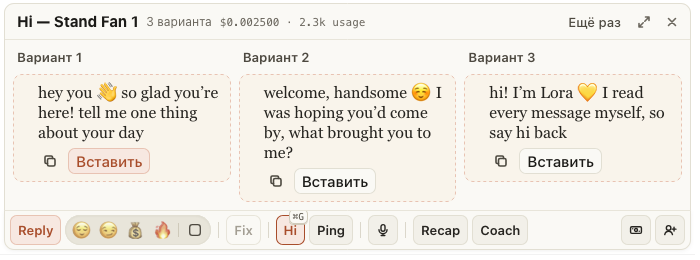
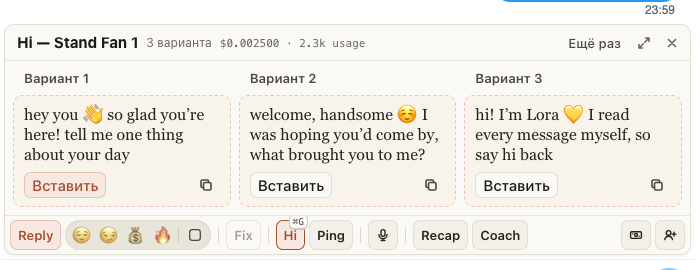
fix(dock): Hi's side-by-side cards share one height, their buttons one foot line

diff --git a/packages/ui/src/dock/styles.ts b/packages/ui/src/dock/styles.ts
@@ -154,16 +154,23 @@ ${/* ── parts: Hi variants, the Б2 question ── */ ''}
 .cg-vhead b { color: var(--cg-ink-2); font-weight: 600; }
 .cg-hi { display: grid; gap: 8px; padding: 6px 8px 8px; }
 .cg-hi__col { display: grid; gap: 6px; align-content: start; min-width: 0; }
+${/* Side by side the variants read as one row of cards: each column's last card reaches the row's foot, its buttons
+   stand at the card's foot — «Вставить» at the text's edge, «Копировать» at the far one — and a card of one message
+   keeps the same margin on both sides of its text. */ ''}
 @container cg (min-width: 680px) {
   .cg-hi { grid-auto-flow: column; grid-auto-columns: minmax(0, 1fr); }
-  .cg-hi__col { container: cg-hi / inline-size; }
-  .cg-hi .cg-part { grid-template-columns: 24px minmax(0, 1fr); }
+  .cg-hi__col { container: cg-hi / inline-size; display: flex; flex-direction: column; }
+  .cg-hi__col > .cg-part:last-child { flex-grow: 1; }
+  .cg-hi .cg-vhead { padding: 0 11px; }
+  .cg-hi .cg-part { grid-template-columns: 24px minmax(0, 1fr); grid-template-rows: 1fr; padding: 8px 10px 8px 0; }
+  .cg-hi .cg-part.is-solo { grid-template-columns: 10px minmax(0, 1fr); }
   .cg-hi .cg-part__t { font-size: var(--cg-text-lg); line-height: 20px; }
-  .cg-hi .cg-part__a { grid-column: 2; justify-self: start; flex-wrap: wrap; row-gap: 4px; margin: 6px 0 0 -2px; }
-  .cg-hi .cg-part.is-done .cg-part__a { margin: 2px 0 0 -2px; }
+  .cg-hi .cg-part__a { grid-column: 2; flex-wrap: wrap; row-gap: 4px; margin: 8px 0 0; }
+  .cg-hi .cg-part__copy { order: 1; margin-left: auto; }
+  .cg-hi .cg-part.is-done .cg-part__a, .cg-hi .cg-part.is-done.is-kept .cg-part__a { margin: 8px 0 0; }
   .cg-hi .cg-part__card, .cg-hi .cg-part__extra { grid-column: 2; }
 }
-${/* A variant's column of a ~700 px dock is ~225 px: «Копировать» in words and «Вставить ↵» do not fit its card, so
+${/* A variant's column of a ~700 px dock is ~225 px: «Копировать» in words beside «Вставить ↵» does not fit its card, so
    the copy is its icon there, as on a narrow dock; a row that still runs past the card wraps instead. */ ''}
 @container cg-hi (max-width: 279px) {
   .cg-hi .cg-part__copy { width: 28px; padding: 0; justify-content: center; }

diff --git a/changes/hi-variants-fit.md b/changes/hi-variants-fit.md
@@ -3,15 +3,17 @@ kind: fixed
 sites: chatspace, fansly
 ---
 
-# Кнопки под вариантами Hi помещаются в карточку
+# Три варианта Hi стоят ровно, кнопки — внутри карточек
 
 Для тех, у кого поле чата средней ширины: Hi ставит три варианта рядом, и кнопка «Вставить» вылезала за край
-карточки. Теперь в узкой колонке «Копировать» — значок с подсказкой, а «Вставить» стоит рядом с ним внутри
-карточки. На широком поле «Копировать» по-прежнему написано словом.
+карточки, а карточки были разной высоты. Теперь карточки одной высоты, «Вставить» у каждой внизу слева, на одной
+линии во всех трёх, «Копировать» — в том же ряду справа. В узкой колонке «Копировать» — значок с подсказкой, на
+широком поле — словом.
 
-![Hi на поле шириной ~700 px: три варианта, кнопки внутри карточек](hi-variants-fit.png)
+![Hi на поле шириной ~700 px: три карточки одной высоты, кнопки внизу](hi-variants-fit.png)
 
 ## Как это устроено
 
-Колонка варианта сама решает по своей ширине: уже 280 px — «Копировать» значком. Если кнопки всё равно не
-помещаются (например, «✓ Вставлено · Вставить ещё раз»), они переносятся на вторую строку, а не выходят за край.
+Карточки тянутся до высоты самой длинной, кнопки прижаты к низу. Колонка варианта сама решает по своей ширине:
+уже 280 px — «Копировать» значком. Если кнопки всё равно не помещаются (например, «✓ Вставлено · Вставить ещё
+раз»), они переносятся на вторую строку, а не выходят за край. Варианты столбиком на узком поле не изменились.
